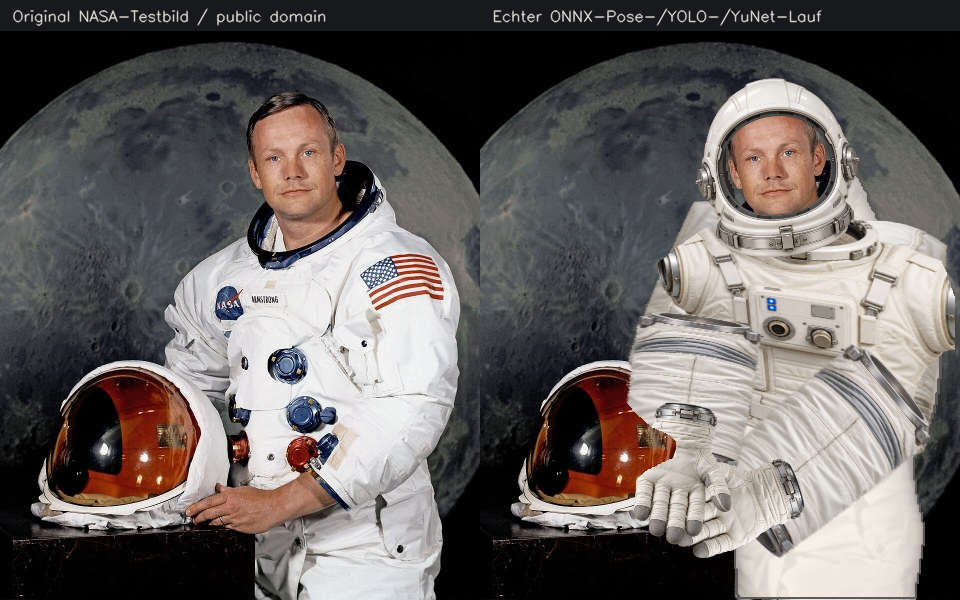
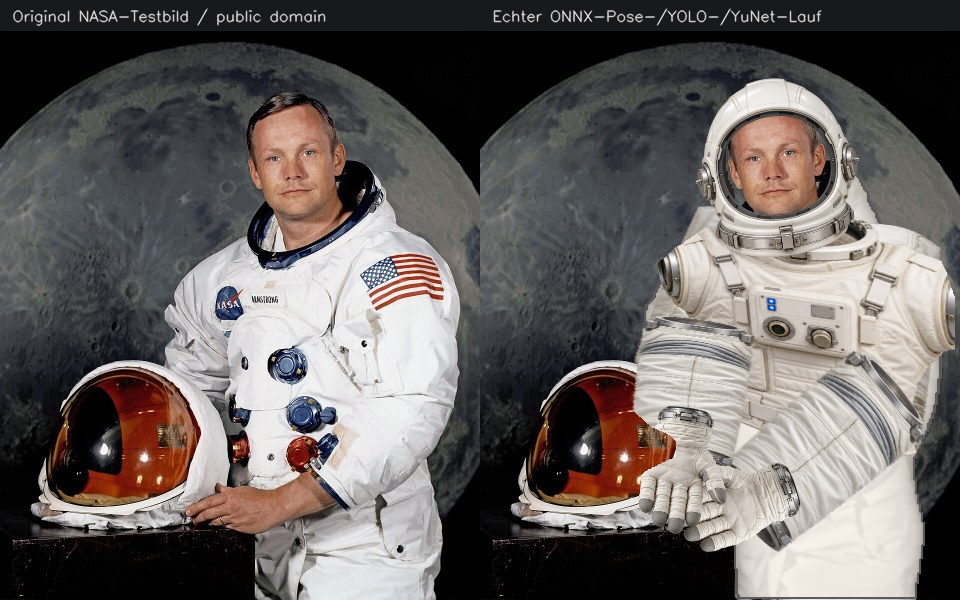
Reduce EVA sleeve and glove size by ten percent

Changed region(s): [[0.6562, 0.48, 1.0, 0.93], [0.9062, 0.36, 1.0, 0.45], [0.6875, 0.33, 0.75, 0.42]]

diff --git a/fruit-ninja-cv/suit_rig.py b/fruit-ninja-cv/suit_rig.py
@@ -455,7 +455,7 @@ class SuitRenderer:
                                  ('r',(12,14,16,20,24,26,28,32))]:
                 sh,el,wr,fi,hip,knee,ankle,toe=indices
                 for asset,a,b,factor,layer in [('thigh',hip,knee,.53,0),('shin',knee,ankle,.48,1),
-                                              ('upper_arm',sh,el,.56,8),('forearm',el,wr,.54,40)]:
+                                              ('upper_arm',sh,el,.504,8),('forearm',el,wr,.486,40)]:
                     part=self._limb(asset,asset+'_'+side,a,b,width*factor,pose,player,quad)
                     if part is not None:
                         # Far arms go behind the torso; near forearms cross in front.
@@ -474,9 +474,9 @@ class SuitRenderer:
                         a,b=pose.segment(el,wr);direction=b-a;length=float(np.linalg.norm(direction))
                     direction=direction/max(length,1)
                     wrist=hand[0].copy()
-                    hand=np.array((wrist-direction*width*.08,
-                                   wrist+direction*max(width*.40,min(np.linalg.norm(hand[1]-wrist),width*.62))))
-                    commands.append((45,self._part('glove','glove_'+side,hand,width*.55)))
+                    hand=np.array((wrist-direction*width*.072,
+                                   wrist+direction*max(width*.36,min(np.linalg.norm(hand[1]-wrist)*.9,width*.558))))
+                    commands.append((45,self._part('glove','glove_'+side,hand,width*.495)))
                 foot=pose.segment(ankle,toe)
                 if foot is not None:
                     if np.linalg.norm(foot[1]-foot[0])<width*.17:

diff --git a/fruit-ninja-cv/tests/test_suit_rig.py b/fruit-ninja-cv/tests/test_suit_rig.py
@@ -212,13 +212,13 @@ def test_short_finger_projection_does_not_create_a_tiny_glove():
 def test_sleeve_cuffs_have_matching_visible_widths_not_only_matching_canvases():
     r=SuitRenderer()
     widths=[]
-    for name,endpoint,factor in [('upper_arm',1,.56),('forearm',0,.54)]:
+    for name,endpoint,factor in [('upper_arm',1,.504),('forearm',0,.486)]:
         sprite=r.assets[name];meta=r.meta[name]
         row=round(meta['anchors'][endpoint][1]*sprite.image.shape[0])
         columns=np.flatnonzero(sprite.image[row,:,3]>128)
         widths.append((columns[-1]-columns[0]+1)/(meta['width']*sprite.image.shape[1])*factor)
     assert min(widths)/max(widths)>.9
-    assert min(widths)>.45
+    assert min(widths)>.405
 
 
 def test_short_projected_arm_keeps_wide_sleeve_and_joint_overlap():
@@ -227,8 +227,9 @@ def test_short_projected_arm_keeps_wide_sleeve_and_joint_overlap():
     r.render(raw.copy(),raw,np.full((200,160),255,np.uint8),pose=pose,now=0)
     parts={p['name']:p for p in r.last_parts}
     arm=parts['upper_arm_l'];forearm=parts['forearm_l']
-    assert arm['width']>=r._body_size*.55
-    assert forearm['width']>=r._body_size*.53
+    assert np.isclose(arm['width'],r._body_size*.56*.9)
+    assert np.isclose(forearm['width'],r._body_size*.54*.9)
+    assert np.isclose(parts['glove_l']['width'],r._body_size*.55*.9)
     assert np.linalg.norm(arm['fit_endpoints'][1]-pose.points[13,:2])>=arm['width']*.18
     assert np.linalg.norm(forearm['fit_endpoints'][0]-pose.points[13,:2])>=forearm['width']*.18
 

diff --git a/docs/astronaut-suit.md b/docs/astronaut-suit.md
@@ -115,15 +115,15 @@ keine gemessene Kamera-zu-Bildschirm-Latenz.** Keine garantierte Live-Framerate.
 
 | Schritt | Eingabe | Median ms | P95 ms |
 | --- | --- | ---: | ---: |
-| Artikulierter Anzug inkl. Eingabekopie | synthetisch 960×720 | 37.40 | 39.53 |
-| Stifttracking | synthetisch 960×720 | 1.14 | 1.29 |
-| Pose inkl. periodischer Initialisierung | Porträt 480×600 / 256px Netz | 14.77 | 34.37 |
-| YOLO-Inferenz+Decode | Porträt 480×600 / 320px Netz | 28.42 | 31.11 |
-| YuNet-Detektion | Porträt 480×600 / 320px Netz | 6.76 | 7.39 |
-| Alle Modelle und Rendering bei jedem Aufruf | Porträt 480×600 | 83.34 | 103.97 |
-| Getaktete Pipeline (Marker, N=3 YOLO, Pose/Flow, Face, Rendering) | Porträt 480×600 | 79.52 | 99.83 |
+| Artikulierter Anzug inkl. Eingabekopie | synthetisch 960×720 | 36.91 | 39.51 |
+| Stifttracking | synthetisch 960×720 | 0.76 | 1.23 |
+| Pose inkl. periodischer Initialisierung | Porträt 480×600 / 256px Netz | 14.39 | 36.57 |
+| YOLO-Inferenz+Decode | Porträt 480×600 / 320px Netz | 27.79 | 30.00 |
+| YuNet-Detektion | Porträt 480×600 / 320px Netz | 5.37 | 6.14 |
+| Alle Modelle und Rendering bei jedem Aufruf | Porträt 480×600 | 78.42 | 100.06 |
+| Getaktete Pipeline (Marker, N=3 YOLO, Pose/Flow, Face, Rendering) | Porträt 480×600 | 77.32 | 96.70 |
 
-Der getaktete Durchlauf benötigte im Mittel **64.95 ms**, entsprechend etwa **15.4 verarbeiteten Testbildern/s** ohne Capture/Anzeige. Das ist kein 720p-Live-FPS-Wert; Komponenten mit verschiedenen Eingabegrößen
+Der getaktete Durchlauf benötigte im Mittel **62.57 ms**, entsprechend etwa **16.0 verarbeiteten Testbildern/s** ohne Capture/Anzeige. Das ist kein 720p-Live-FPS-Wert; Komponenten mit verschiedenen Eingabegrößen
 dürfen nicht einfach addiert werden. Die zusätzliche Figur kostet Rechenzeit;
 30 oder 60 Live-FPS werden auf dieser Grundlage ausdrücklich nicht zugesichert.
 Ausgabeauflösung und Inferenzintervalle am Demogerät anhand Bildqualität UND
@@ -209,3 +209,15 @@ und wechselnde Beleuchtung benötigen weiterhin eine Live-Abnahme.
 
 
 Integration: main / faa6023 mit den Performance-Änderungen aus PR #45 wurde übernommen. Lazy-YOLO-Laden, zeitbasierte Spielbewegung, halbaufgelöstes Tracking und die Performance-Anzeige bleiben erhalten. Die zwischenzeitliche Integration auf demselben Branch (3e240c6) bleibt erhalten: Pose-Rig und gemeinsame Performance-Diagnose verwenden weiterhin das unveränderte Kamerabild und eine Gesichtserkennung je Frame. Die gemeinsame Testsuite besteht aus 353 erfolgreichen Tests.
+
+
+### Feinabstimmung: Arme 10 Prozent kleiner
+
+Auf Rückmeldung wurden Oberarm- und Unterarmbreite sowie Handschuhbreite/-länge
+gegenüber der vorigen Armkorrektur gemeinsam um 10 Prozent reduziert. Aktuelle
+Breiten relativ zur Körpergrößenbasis: Oberarm 0,504, Unterarm 0,486, Handschuh
+0,495. Anatomische Segmentlängen und Gelenkpositionen folgen weiterhin direkt
+der Pose. Angeglichene Bundprofile, Schulteranschlüsse, breitenabhängige
+Gelenküberlappung und Bewegungsverhalten bleiben erhalten. Rumpf und Helm sind
+unverändert. Alle 353 Tests bestehen; Vorschauen und Headless-Messungen wurden
+erneuert. Die Größenänderung benötigt weiterhin eine Live-Webcam-Abnahme.

diff --git a/Architektur.md b/Architektur.md
@@ -526,3 +526,15 @@ und wechselnde Beleuchtung benötigen weiterhin eine Live-Abnahme.
 
 
 Integration: main / faa6023 mit den Performance-Änderungen aus PR #45 wurde übernommen. Lazy-YOLO-Laden, zeitbasierte Spielbewegung, halbaufgelöstes Tracking und die Performance-Anzeige bleiben erhalten. Die zwischenzeitliche Integration auf demselben Branch (3e240c6) bleibt erhalten: Pose-Rig und gemeinsame Performance-Diagnose verwenden weiterhin das unveränderte Kamerabild und eine Gesichtserkennung je Frame. Die gemeinsame Testsuite besteht aus 353 erfolgreichen Tests.
+
+
+### Feinabstimmung: Arme 10 Prozent kleiner
+
+Auf Rückmeldung wurden Oberarm- und Unterarmbreite sowie Handschuhbreite/-länge
+gegenüber der vorigen Armkorrektur gemeinsam um 10 Prozent reduziert. Aktuelle
+Breiten relativ zur Körpergrößenbasis: Oberarm 0,504, Unterarm 0,486, Handschuh
+0,495. Anatomische Segmentlängen und Gelenkpositionen folgen weiterhin direkt
+der Pose. Angeglichene Bundprofile, Schulteranschlüsse, breitenabhängige
+Gelenküberlappung und Bewegungsverhalten bleiben erhalten. Rumpf und Helm sind
+unverändert. Alle 353 Tests bestehen; Vorschauen und Headless-Messungen wurden
+erneuert. Die Größenänderung benötigt weiterhin eine Live-Webcam-Abnahme.
